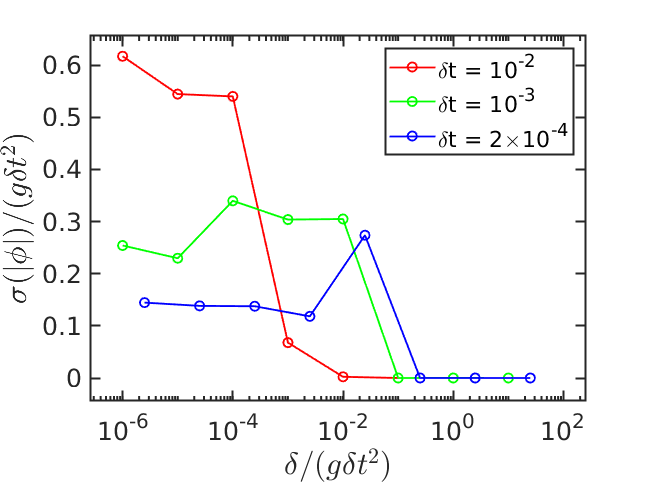
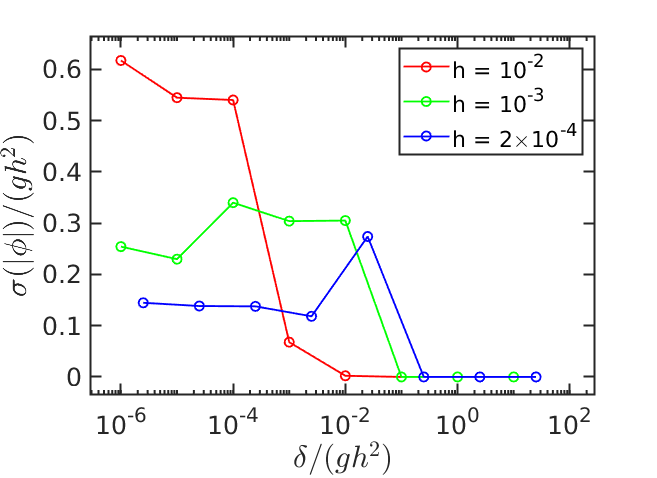
Updates scaling law analysis

diff --git a/multibody/plant/contact_model_doxygen.h b/multibody/plant/contact_model_doxygen.h
@@ -651,13 +651,13 @@ its limitations.
 @section discrete_contact_instabilities Discrete Contact Instabilities
 
 We motivate the concept of margin by considering an instability problem with the
-simulation in Fig. 1. Two boxes (of 0.083 m x 0.23 m x 0.15 m and mass of 0.2
-kg) are stacked on top of each other. Their dynamics is simulated at a
-relatively large time step of 10 ms (large for robotics applications). Only
-their surface meshes are shown as wire frames so that we can appreciate the
-contact surface, colored by pressure. While we'd expect the upper box to rest
-stably on the lower box, we observe a wobbling instability where the contact
-surface shifts back and forth between two corners.
+simulation in Fig. 1. Two boxes (of 0.2 m x 0.15 m x 0.08 m and mass of 0.2 kg)
+are stacked on top of each other. Their dynamics is simulated at a relatively
+large time step of 10 ms (large for robotics applications). Only their surface
+meshes are shown as wire frames so that we can appreciate the contact surface,
+colored by pressure. While we'd expect the upper box to rest stably on the lower
+box, we observe a wobbling instability where the contact surface shifts back and
+forth between two corners.
 
 @image html drake/multibody/plant/images/unstable_box_box_contact.gif "Figure 1: Unstable flat-on-flat contact." width=50%
 
@@ -960,56 +960,97 @@ TODO: Write this.
 @subsection margin_scaling_confirmation Numerical Confirmation of the Scaling Law
 
 The result in (3) predicts the magnitude of contact oscillations in the absence
-of margin (δ = 0) for the simplified system of Fig. 6. In this section we aim to
-show that this scaling law also provides a good approximation to the magnitude
-of contact instabilities for the original and more complex system of Fig. 1.
-Notice the system in Fig. 1 is three-dimensional, with contact modeled using the
-hydroelastic contact model instead of point contact (providing continuous
-surfaces rather than discrete points), and with two rigid bodies rather than a
-single rod.
+of margin (δ = 0) for the simplified system of Fig. 6. The estimation predicts
+`Δϕ = h²⋅g`. This estimation will not hold exactly for arbitrary geometries and
+mass distributions. The expectation, however, is that the scaling `Δϕ ~ h²⋅g`
+still does provide a good estimation of the magnitude of these spurious
+oscillations.
 
-We first run the simulation with the boxes stacked on top of each other, no
-margin, and let the system reach its limit cycle in which the boxes rattle back
-and forth. Unlike the simplified system of Fig. 6, the limit cycle typically
-includes several time steps and the boxes rotate about an axes usually not
-aligned with any of their axes of symmetry.
+The aim of this section is to verify to what extend this scaling does provide a
+good estimation of the amplitude of these oscillations in a more complex case.
+We are particularly interested not only to understand to what extent the scaling
+law applies to this system but even more so, to verify the independence of these
+results with parameters such as stiffness and mass (the simplified case was
+actually shown to be independent of these parameters). If (3) happens to provide
+a good estimation, then we have a very good chance of success at choosing a
+value of margin δ for arbitrary simulation cases.
 
-We set the hydroelastic modulus to span a wide range of values, from 10⁴ Pa to
-10⁹ Pa. For each modulus, we run a set of simulations with time steps h ∈
-[6.25×10⁻⁴, 1.25×10⁻³, 2.5×10⁻³, 5×10⁻³, 10⁻²], in seconds. All simulations use
-a non-zero Hunt & Crossley dissipation `d = 20 s/m` to keep the rattling
-instability somewhat under control to avoid the upper box from drifting and
-falling to the side. In addition, we run a set of simulations with different box
-sizes (square symbols in Fig. 8, with modulus E=10⁹ Pa). We scale the size by
-factors of 2 and 4, keeping density constant and thus changing the total mass by
-factors 8 and 64 respectively.  An additional case only scales the x-length of
-the boxes by a factor of 4, effectively changing the aspect ratio of the boxes
-and contact area.
+For a general contact problem, many physical and numerical parameters are
+involved:
+  1. Hydroelastic modulus E.
+  2. Mass (or density).
+  3. Sizes and aspect ratios.
+  4. Shape and mass distribution
+  5. Time step.
+  6. Hunt & Crossley dissipation.
 
-We monitor the amount of interpenetration and compute its standard deviation (of
-its absolute value) as a means to characterize the amplitude of the rattling
-instabilities. We denote this with σ(|ϕ|). We plot σ(|ϕ|) / (h²⋅g) in Fig. 8,
-which should be constant if the prediction from Eq. (3) holds. On the horizontal
-axes with plot a "semi-dimensionless" time step. With that we mean that if the
-hydroelastic modulus E (with units of Pa) was a point contact stiffness k (with
-units of N/m), this quantity would be dimensionless. It is not, but it still
-scales data properly such that curves collapse within a single region.
+To start somewhere, we fix the shapes we use, and choose as our first study case
+the stack of boxes we started with, Fig. 1. To verify (3), we'd need to scan
+this high dimensional space of parameters, a daunting task. To make this
+tractable we resource the incredibly powerful tool of dimensional analysis. This
+method reduces the dimension of the parameter space by finding an alternative
+(smaller) set of dimensionless parameters. The underlying method is described by
+Buckingham π theorem, though in practice selecting these parameters often
+requires a great deal of experience and physical intuition. We won't go in
+detail here, but consider an example for sure you are familiar with. While the
+drag force a fluid exerts on an object is an incredibly complex function of
+density, viscosity, flow speed, geometry and size, engineers make very useful
+plots involving two (now very popular) dimensionless quantities; drag
+coefficient vs. Reynolds number. We therefore use the same procedure to find two
+dimensionless parameters that can succinctly capture the physics (and numerics
+in this case) of the problem at hand.
 
-For data to the right of Fig. 8, even though σ(|ϕ|) / (h²⋅g) is not exactly
-constant, values fall within a range between 0.1 to 0.6. For reference, a dashed
-line shows a function that scales as `y ~ x⁰ᐧ¹`. This is an excellent
-confirmation of the scaling predicted by Eq. (3) considering the wide range of
-problem parameters tested and the significantly more complex dynamics and
-contact interactions. Towards low values of h⋅(E/m)¹⁄₂, vibrations die off,
-starting to increase once again for the three lowest values of E. Vibrations die
-off at smaller time steps since the overshooting that happens with discrete time
-stepping decreases. Similarly, smaller values of E make the penetration due to
-compliance comparable to these vibrations. The increase we observe at the
-smaller values of E is only an artifact of the simulations  not reaching yet a
-steady state; compliance is so low that with the dissipation used boxes are
-still settling. This is amplified by the fact that we are monitoring values very
-close to zero.
+We start by defining an _effective spring stiffness_ as `k = E⋅A/H`, with E the
+hydroelastic modulus, A the area of contact (in our case the area of the base of
+the box), and H the _Elastic Foundation_ depth (in our case half of the boxes
+minimum side length). With this, we can define the (angular) frequency `ω =
+(k/m)¹⁄₂`, similarly to a spring-mass system, where `m` is the mass of the box.
+This frequency characterizes the dynamics of the compliant contact, and our
+intuition tells us it should be an important quantity in the analysis. With
+this, we define our first dimensionless parameter: `π₁ = h⋅ω = h⋅(k/m)¹⁄₂`.
 
-@image html drake/multibody/plant/images/box_on_box_std_penetration.png "Figure 8: Scaling of the vibration with problem parameters. No margin, δ = 0." width=30%
+Our second parameter must involve the amplitude of the oscillations. Guided by
+our estimation in (3), we define `π₂ = σ(|ϕ|) / (h²⋅g)`, where to characterize
+the amplitude of the oscillations we measure the standard deviation `σ(|ϕ|)` of
+the penetrations.
+
+Having identified these two dimensionless parameters, we now run a large number
+of simulations, scanning the parameter space (E, m, sizes, h). We then measure
+`σ(|ϕ|)` for each, compute π₁ and π₂ and plot them with the hope to find a clear
+relationship among them.
+
+The parameters we sweep are:
+ 1. Hydroelastic modulus E, from 10⁴ Pa to 10⁹ Pa.
+ 2. Time step, h ∈ [6.25×10⁻⁴, 1.25×10⁻³, 2.5×10⁻³, 5×10⁻³, 10⁻²], in seconds.
+ 3. Size. We scale the size by factors of 2 and 4.
+ 4. Shape. We scale only along the x-axis of the box.
+ 5. Mass. Density is kept constant, changing accordingly as the size of the box
+    changes.
+
+All simulations use a non-zero Hunt & Crossley dissipation `d = 20 s/m` to keep
+the rattling instability somewhat under control to avoid the upper box from
+drifting and falling to the side.
+
+We plot `σ(|ϕ|) / (h²⋅g)` in Fig. 8. Labels correspond to hydroelastic modulus
+`E`, and in parenthesis to size and shape changes. The very first thing we
+observe clearly is that oscillations die off below a frequency close to the
+Nyquist frequency (= 1/(2h), or h⋅(k/m)¹⁄₂ = π). This makes sense, as the
+dynamics of contact is resolved by the simulation time step, the numerical
+method is able to recover from this spurious oscillatory behavior. We note that
+the increase we observe at the smaller values of `π₁ = h⋅ω` is only an artifact
+of the simulations  not reaching yet a steady state; compliance is so low that
+with the dissipation used boxes are still settling.
+
+Second, we observe that oscillations develop at frequencies higher than the
+Nyquist frequency; time step is not small enough to resolve the dynamics of the
+compliant contact. While (3) predicts a constant value in this regime, we
+observe for this case (dimensionless) amplitudes in the range π₂ ∈ (0.1, 0.6).
+This might seem like a large discrepancy with the simplified analysis, but it's
+quite the opposite! Keep in mind this is a significantly more complex system
+than the one in Fig. 6 and that parameters change order of magnitude over a wide
+range. Even for this case, estimating the amplitude of these vibrations with
+~h²⋅g, provides a good approximation.
+
+@image html drake/multibody/plant/images/box_on_box_std_penetration_with_notations.png "Figure 8: Amplitude of the oscillations with problem parameters. No margin, δ = 0." width=35%
 
 */
